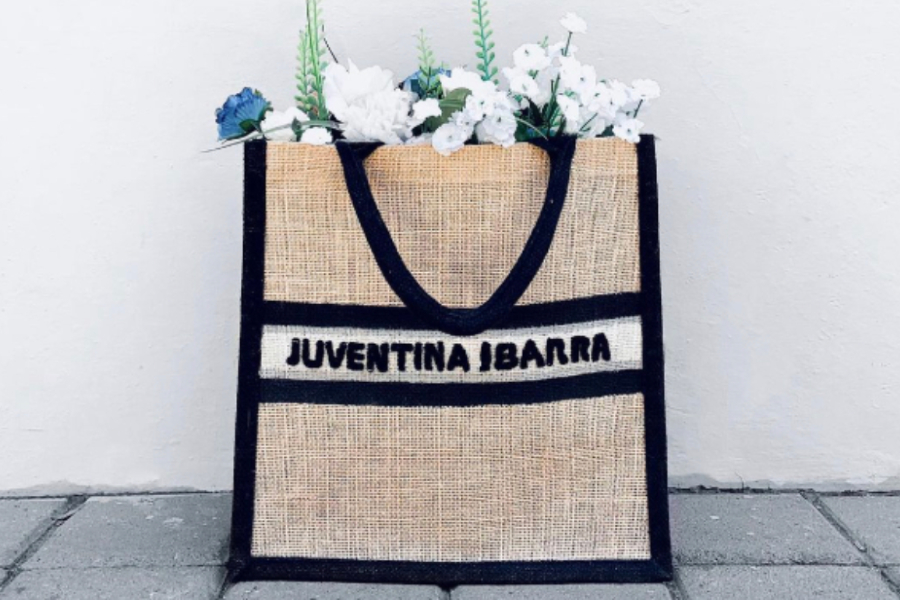
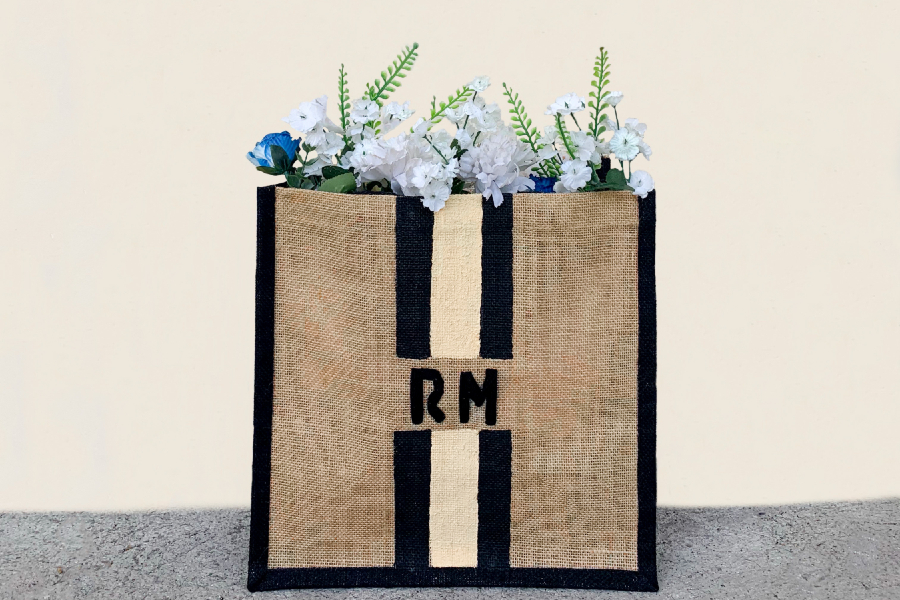
recent update

diff --git a/palace.html b/palace.html
@@ -66,40 +66,40 @@
       <div class="col-sm-6 portfolio-item"> <a href="work-details.html" class="portfolio-link">
         <div class="caption">
           <div class="caption-content">
-            <h3>The Shape of Design</h3>
-            <h4>Branding/Graphic</h4>
+            <h3>Lineas Verticales</h3>
+            <h4>Con Iniciales</h4>
           </div>
         </div>
         <img src="images/portfolio/work-1.jpg" class="img-responsive" alt=""> </a> </div>
       <div class="col-sm-6 portfolio-item"> <a href="work-details.html" class="portfolio-link">
         <div class="caption">
           <div class="caption-content">
-            <h3>czarna kawka</h3>
-            <h4>Branding</h4>
+            <h3>Proximamente</h3>
+            <h4>Coming Soon</h4>
           </div>
         </div>
         <img src="images/portfolio/work-2.jpg" class="img-responsive" alt=""> </a> </div>
       <div class="col-sm-6 portfolio-item"> <a href="work-details.html" class="portfolio-link">
         <div class="caption">
           <div class="caption-content">
-            <h3>czarna kawka</h3>
-            <h4>Branding</h4>
+            <h3>Proximamente</h3>
+            <h4>Coming Soon</h4>
           </div>
         </div>
         <img src="images/portfolio/work-3.jpg" class="img-responsive" alt=""> </a> </div>
       <div class="col-sm-6 portfolio-item"> <a href="work-details.html" class="portfolio-link">
         <div class="caption">
           <div class="caption-content">
-            <h3>czarna kawka</h3>
-            <h4>Branding</h4>
+            <h3>Lineas Horizontales</h3>
+            <h4>Con Iniciales</h4>
           </div>
         </div>
         <img src="images/portfolio/work-4.jpg" class="img-responsive" alt=""> </a> </div>
-      <div class="col-sm-6 portfolio-item"> <a href="work-details.html" class="portfolio-link">
+      <!-- <div class="col-sm-6 portfolio-item"> <a href="work-details.html" class="portfolio-link">
         <div class="caption">
           <div class="caption-content">
-            <h3>czarna kawka</h3>
-            <h4>Branding</h4>
+            <h3>blep </h3>
+            <h4>Con Iniciales</h4>
           </div>
         </div>
         <img src="images/portfolio/work-5.jpg" class="img-responsive" alt=""> </a> </div>
@@ -111,7 +111,7 @@
           </div>
         </div>
         <img src="images/portfolio/work-6.jpg" class="img-responsive" alt=""> </a> </div>
-    </div>
+    </div> -->
   </div>
 </section>
 <!-- portfolio grid section --> 
@@ -152,7 +152,7 @@
       <p> Whatsapp: <a href="https://wa.me/526692105566?text=Estoy%20interesad@%20en%20una%20bolsa">699.210.5566</a> O Mandame un DM : <a href="https://instagram.com/palace_summer_bag">@palace_summer_bag</a></p>
     </div>
     <div class="col-md-6 right">
-      <p>© 2021 All rights reserved. All Rights Reserved<br>
+      <p>© 2021 Palace Summer Bag<br>
     </div>
   </div>
 </footer>
